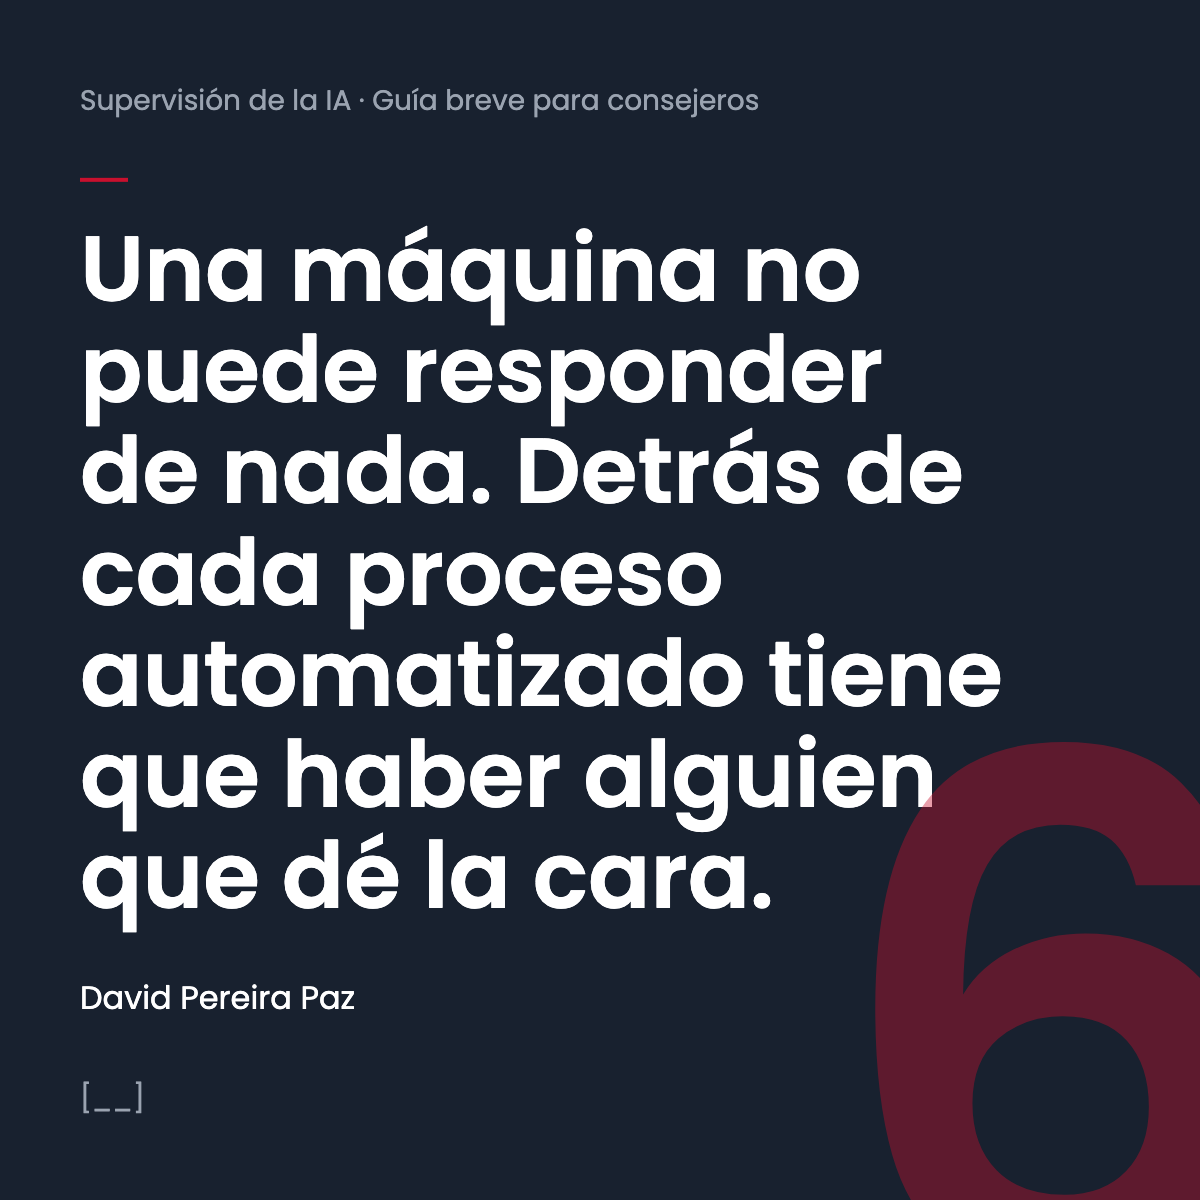
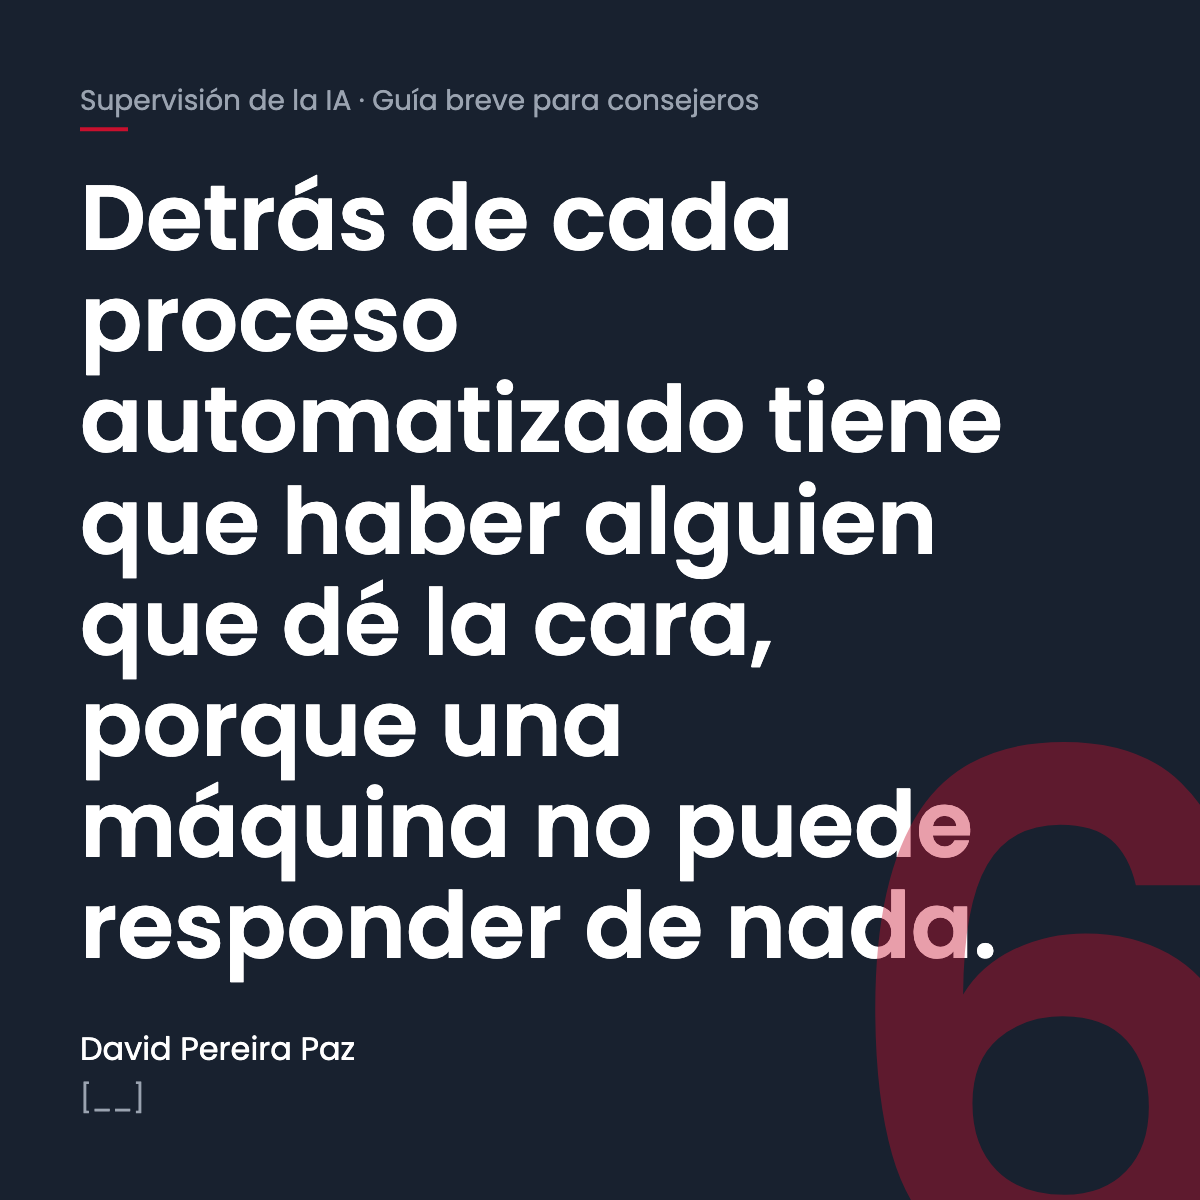
Copy: reformula los contrastes «no es X. Es Y» y el subtítulo del hero (cambio autorizado por el autor)
Aplica las guías de estilo contra prosa de IA al copy de SPEC.md secciones 5 y
13.5 conservando vocabulario y sentido; sincroniza landing, autoevaluación,
manifiesto, plantillas, posts.md y alt.json, y vuelve a renderizar los activos.

Changed region(s): [[0.0617, 0.0925, 0.8325, 0.8942]]

diff --git a/autoevaluacion/index.html b/autoevaluacion/index.html
@@ -250,7 +250,7 @@
               <li class="bar" id="barra-6"><span class="bar__label">Cómo implicar a las personas</span><span class="bar__track" aria-hidden="true"><span class="bar__fill"></span></span><span class="bar__score">0 / 9</span></li>
             </ul>
             <p class="result__zero">Decisiones que puntúan cero: <span id="ceros">ninguna</span></p>
-            <p class="result__note">Una puntuación baja no es un fracaso. Es el punto de partida que tienen hoy casi todas las empresas.</p>
+            <p class="result__note">Una puntuación baja es el punto de partida que tienen hoy casi todas las empresas.</p>
             <noscript><p class="result__note">El cálculo en pantalla necesita JavaScript. Puede enviar el formulario igualmente y recibirá el resultado por correo.</p></noscript>
           </section>
 

diff --git a/index.html b/index.html
@@ -62,7 +62,7 @@
       <div class="container">
         <span class="kicker">Guía breve para consejeros</span>
         <h1>Supervisar la IA sin ser técnico</h1>
-        <p class="hero__subtitle">Seis decisiones que un consejo de administración no puede delegar. Una hora de lectura. Criterio suficiente para preguntar, exigir y decidir.</p>
+        <p class="hero__subtitle">Seis decisiones que un consejo de administración no puede delegar. Una hora de lectura y criterio suficiente para preguntar, exigir y decidir.</p>
         <div class="btn-group">
           <a class="btn btn--primary" href="whitebook/">Descargar el whitebook</a>
           <a class="btn btn--secondary btn--on-dark" href="autoevaluacion/">Hacer la autoevaluación</a>

diff --git a/social/templates/statement.html b/social/templates/statement.html
@@ -6,7 +6,7 @@
 <script type="application/json" id="copy">
 {
   "kicker": "Supervisión de la IA · Guía breve para consejeros",
-  "statement": "Lo que se alquila no es una ventaja. La estrategia empieza por lo que no se puede comprar.",
+  "statement": "La estrategia empieza por lo que no se puede comprar, porque lo que se alquila no es una ventaja.",
   "author": "David Pereira Paz",
   "url": "[__]"
 }

diff --git a/SPEC.md b/SPEC.md
@@ -106,7 +106,7 @@ All content below is final copy in Spanish. Use it as given. Do not translate it
 
 - Kicker: `Guía breve para consejeros`
 - Title (H1): `Supervisar la IA sin ser técnico`
-- Subtitle: `Seis decisiones que un consejo de administración no puede delegar. Una hora de lectura. Criterio suficiente para preguntar, exigir y decidir.`
+- Subtitle: `Seis decisiones que un consejo de administración no puede delegar. Una hora de lectura y criterio suficiente para preguntar, exigir y decidir.`
 - Primary button: `Descargar el whitebook` → `/whitebook/`
 - Secondary button: `Hacer la autoevaluación` → `/autoevaluacion/`
 
@@ -202,7 +202,7 @@ The result area shows:
 - Total score as `N / 54`.
 - Six bars, one per group, each with the group score as `n / 9`.
 - One line of text: `Decisiones que puntúan cero: ` followed by the group titles whose score is 0, or `ninguna`.
-- One fixed sentence: `Una puntuación baja no es un fracaso. Es el punto de partida que tienen hoy casi todas las empresas.`
+- One fixed sentence: `Una puntuación baja es el punto de partida que tienen hoy casi todas las empresas.`
 - A form (see F-05) with title `Reciba el resultado y el whitebook por correo` and button `Enviar`.
 
 The result area must not show a ranking, a benchmark, a percentile, a traffic light, or an interpretation by score band. This is a deliberate decision of the author.
@@ -511,9 +511,9 @@ All copy is in Spanish and final. Do not change it. Where several variants are g
 
 **L1 · LinkedIn single image** (Template 1 and Template 2). Render these five:
 
-1. T1 · `Lo que se alquila no es una ventaja. La estrategia empieza por lo que no se puede comprar.`
-2. T1 · `Una máquina no puede responder de nada. Detrás de cada proceso automatizado tiene que haber alguien que dé la cara.`
-3. T1 · `Cada respuesta cuesta menos. La factura total crece. Las dos cosas son ciertas a la vez.`
+1. T1 · `La estrategia empieza por lo que no se puede comprar, porque lo que se alquila no es una ventaja.`
+2. T1 · `Detrás de cada proceso automatizado tiene que haber alguien que dé la cara, porque una máquina no puede responder de nada.`
+3. T1 · `Cada respuesta cuesta menos y la factura total crece. Las dos cosas son ciertas a la vez.`
 4. T2 · Question: `¿Puede la dirección decirnos qué no va a hacer este año con la IA, quién puede frenar un proyecto y qué dato nos va a traer?` Answer: `Si no, el consejo todavía no supervisa la IA.`
 5. T2 · Question: `¿Cuántos de sus pilotos de IA tienen fecha para ampliarse o cerrarse?` Answer: `Un piloto sin fecha es la forma más cara de aplazar una decisión.`
 
@@ -532,7 +532,7 @@ All copy is in Spanish and final. Do not change it. Where several variants are g
 
 1. T1 · `Supervisar la IA sin ser técnico. Seis decisiones que un consejo no puede delegar.`
 2. T2 · Question: `¿Quién puede parar un sistema de IA mañana en su empresa?` Answer: `Si nadie sabe el nombre, no hay gobierno.`
-3. T2 · Question: `¿Qué dato de valor llega al consejo, y quién responde de él?` Answer: `Los datos de uso son para la dirección. Al consejo le llega el valor.`
+3. T2 · Question: `¿Qué dato de valor llega al consejo, y quién responde de él?` Answer: `Los datos de uso son para la dirección; al consejo le llega el valor.`
 4. T1 · `Dieciocho afirmaciones, cinco minutos. Autoevaluación gratuita para consejos.`
 
 **X3 · X header** (Template 5, 1500 × 500).
@@ -544,7 +544,7 @@ LinkedIn, launch post (with L2 carousel):
 ```
 He escrito una guía breve para consejeros sobre cómo supervisar la IA sin ser técnico.
 
-No explica la tecnología. Explica qué exigir a la dirección: seis decisiones que un consejo no puede delegar, qué pedir en las tres próximas reuniones y una autoevaluación de dieciocho afirmaciones.
+Explica qué exigir a la dirección, no la tecnología: seis decisiones que un consejo no puede delegar, qué pedir en las tres próximas reuniones y una autoevaluación de dieciocho afirmaciones.
 
 Es gratuita. El enlace está en el primer comentario.
 ```
@@ -554,7 +554,7 @@ LinkedIn, self-assessment post (with L1 statement 4):
 ```
 Dieciocho afirmaciones, cinco minutos.
 
-El resultado no da una nota. Dice qué decisiones puntúan cero, que es lo único que importa para la próxima reunión del consejo.
+En vez de una nota, el resultado dice qué decisiones puntúan cero, que es lo único que importa para la próxima reunión del consejo.
 
 Autoevaluación gratuita para consejos, en el primer comentario.
 ```
@@ -566,7 +566,7 @@ X thread (four tweets, one image each, images X2-1 to X2-4):
 
 2/ Primera prueba: ¿quién puede parar un sistema de IA mañana en su empresa? Si nadie sabe el nombre, no hay gobierno.
 
-3/ Segunda: ¿qué dato de valor llega al consejo, y quién responde de él? Los datos de uso son para la dirección. Al consejo le llega el valor.
+3/ Segunda: ¿qué dato de valor llega al consejo, y quién responde de él? Los datos de uso son para la dirección; al consejo le llega el valor.
 
 4/ Hay una autoevaluación de dieciocho afirmaciones. Cinco minutos. Dice qué decisiones puntúan cero. [URL]
 ```

diff --git a/DECISIONS.md b/DECISIONS.md
@@ -28,3 +28,4 @@ Cada entrada: fecha, decisión, motivo. Criterio: la opción más conservadora.
 - **2026-10-03** · El kicker de la plantilla 2 (`question.html`) reutiliza el texto de la plantilla 1, «Supervisión de la IA · Guía breve para consejeros». Motivo: 13.4 pide un kicker en `--signal` pero no fija su texto.
 - **2026-10-03** · Sobre fondo `--ink` (hero y CTA) el texto del kicker usa `#9AA3B0` en lugar de `--signal`; la regla corta sigue en `--signal`. Motivo: `--signal` sobre `--ink` da 2,75:1 y T-13 exige 4,5:1 (Lighthouse accesibilidad 95 → 100, A-02). `#9AA3B0` ya es un color de la paleta de las plantillas sociales (S-02).
 - **2026-10-03** · Revisión de estilo de los textos redactados por el constructor (páginas legales, 404, README) para eliminar rasgos típicos de prosa generada por IA, según la guía «Signs of AI writing» de Wikipedia y las recomendaciones de Anthropic sobre prosa amanerada: tricolones y anáforas rítmicas, remates con efecto tras dos puntos, dobletes («informativo y divulgativo»), negaciones redundantes, etiquetas en negrita y frases de relleno. Se eliminó además la afirmación «no registra su dirección IP» de la política de privacidad porque el alojamiento (GitHub Pages) sí puede registrarla. El copy de SPEC.md (secciones 5 y 13.5) no se ha tocado.
+- **2026-10-03** · Cambio de copy autorizado por el autor: se reformulan los seis contrastes «no es X. Es Y» (C-09, L1-1, L1-2, X2-3 y los dos posts de LinkedIn), el encadenado de tres fragmentos de L1-3 y el subtítulo del hero (C-01) para reducir los patrones que las guías de estilo señalan como típicos de la prosa generada por IA. Se conserva el vocabulario y el sentido; SPEC.md, las páginas, `social/manifest.json`, las plantillas y `posts.md` quedan sincronizados y los activos se han vuelto a renderizar.

diff --git a/social/out/posts.md b/social/out/posts.md
@@ -7,7 +7,7 @@ El autor añade la URL en el primer comentario en LinkedIn (LinkedIn reduce el a
 ```
 He escrito una guía breve para consejeros sobre cómo supervisar la IA sin ser técnico.
 
-No explica la tecnología. Explica qué exigir a la dirección: seis decisiones que un consejo no puede delegar, qué pedir en las tres próximas reuniones y una autoevaluación de dieciocho afirmaciones.
+Explica qué exigir a la dirección, no la tecnología: seis decisiones que un consejo no puede delegar, qué pedir en las tres próximas reuniones y una autoevaluación de dieciocho afirmaciones.
 
 Es gratuita. El enlace está en el primer comentario.
 ```
@@ -17,7 +17,7 @@ Es gratuita. El enlace está en el primer comentario.
 ```
 Dieciocho afirmaciones, cinco minutos.
 
-El resultado no da una nota. Dice qué decisiones puntúan cero, que es lo único que importa para la próxima reunión del consejo.
+En vez de una nota, el resultado dice qué decisiones puntúan cero, que es lo único que importa para la próxima reunión del consejo.
 
 Autoevaluación gratuita para consejos, en el primer comentario.
 ```
@@ -29,7 +29,7 @@ Autoevaluación gratuita para consejos, en el primer comentario.
 
 2/ Primera prueba: ¿quién puede parar un sistema de IA mañana en su empresa? Si nadie sabe el nombre, no hay gobierno.
 
-3/ Segunda: ¿qué dato de valor llega al consejo, y quién responde de él? Los datos de uso son para la dirección. Al consejo le llega el valor.
+3/ Segunda: ¿qué dato de valor llega al consejo, y quién responde de él? Los datos de uso son para la dirección; al consejo le llega el valor.
 
 4/ Hay una autoevaluación de dieciocho afirmaciones. Cinco minutos. Dice qué decisiones puntúan cero. [URL]
 ```
